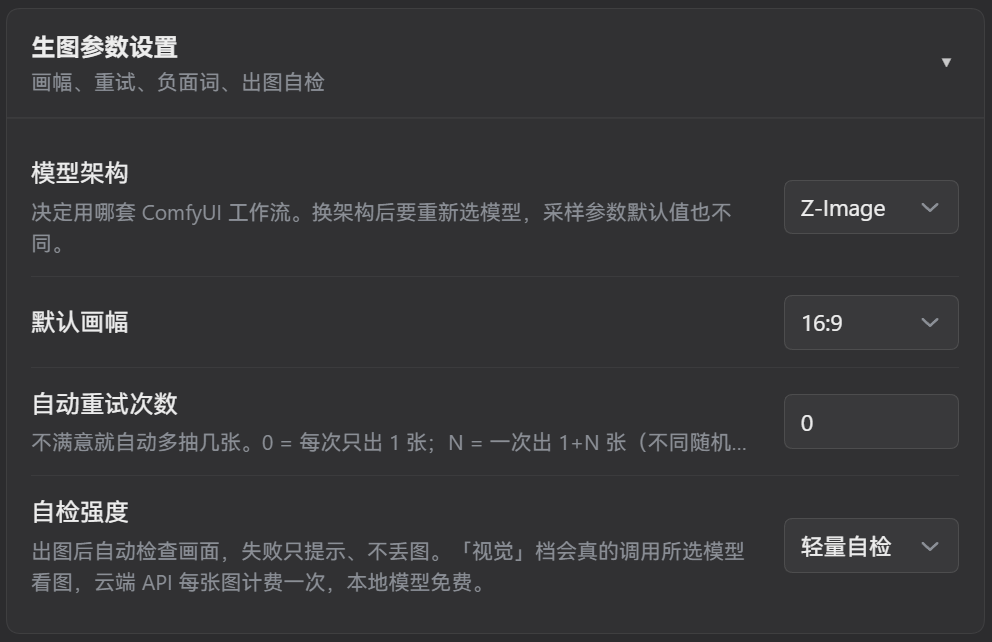
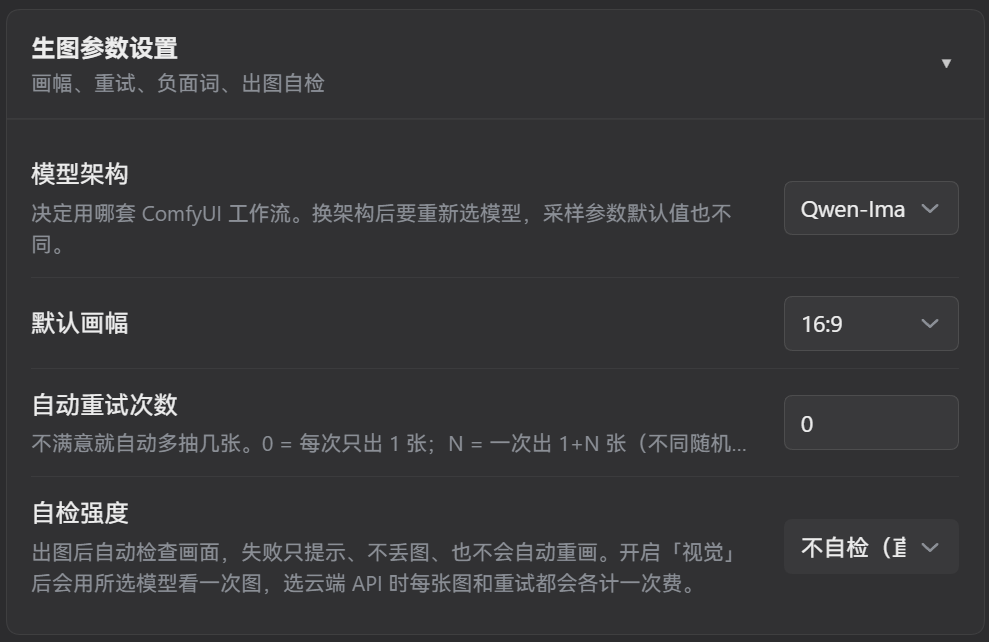
chore: 版本号升到 0.3.3，更新自检说明和截图
- 版本号 0.3.2 → 0.3.3
- CHANGELOG 补 [0.3.3] 章节：删掉轻量自检，说明它引起的 agent 重试问题
- README 四处自检描述改成只剩两档（off / vision），
  并写明「失败只提示、不丢图、不会自动重画」
- 换掉「生图参数设置」截图（新的只有两档自检）

diff --git a/README.md b/README.md
@@ -4,7 +4,7 @@
 
 给一段描述，出一张图；给几张参考图，按描述改。全部调用本机 ComfyUI。  
 支持 **Qwen-Image**、**SDXL**、**Z-Image** 三套架构，可在设置页切换。SDXL 侧额外支持 LoRA（最多 5 个串联）。  
-生图后可选自检：默认的「轻量」只读文件头和尺寸，不调用模型；「视觉」需手动开启，开启后会调用你选定的视觉模型检查结果——这一步的费用由模型提供方收取，插件本身不收费。
+生图后可选自检：默认关闭；开启「视觉自检」后会调用你选定的视觉模型检查结果——这一步的费用由模型提供方收取，插件本身不收费。自检失败只提示、不丢图，也不会自动重画。
 
 [![License: MIT](https://img.shields.io/badge/License-MIT-yellow.svg)](./LICENSE)
 [![DSH Plugin](https://img.shields.io/badge/DeepSeek%20Harness-plugin-blue.svg)]()
@@ -54,7 +54,7 @@ dsh plugin add Hits-pano/dsh-easy-paint
 
 ### 就这三步
 
-剩下的都是可选项：LoRA、参考图、自动重试、出图自检，按需在设置页打开。
+剩下的都是可选项：LoRA、参考图、自动重试、视觉自检，按需在设置页打开。
 
 **第一次用不成功的话**，先看[常见问题](#常见问题)——尤其是「模型下拉是空的」和「出图报错找不到模型」这两条。
 
@@ -71,7 +71,7 @@ dsh plugin add Hits-pano/dsh-easy-paint
 | **底模兼容检测** | 自动读 LoRA 元数据，判断和 Checkpoint 是否同系 |
 | **实时进度** | 状态胶囊显示「Qwen 出图中 4/10」「SDXL 出图中 12/28」「Z-Image 出图中 3/8」 |
 | **自动启停 ComfyUI** | 出图前探活，没启动就自动拉起 |
-| **出图自检** | 可选：「轻量」只查文件尺寸，不调用任何模型 /「视觉」才调模型看图 |
+| **出图自检** | 可选：开启后调用所选视觉模型检查画面；失败只提示、不丢图、不自动重画 |
 | **自动重试** | 可选：一次出多张不同种子供挑选 |
 | **原生设置页** | 6 个折叠面板，改完点保存生效 |
 | **路径自动检测** | 首次安装扫一遍磁盘，自动填好 Python 和 main.py 路径 |
@@ -363,7 +363,7 @@ Z-Image 架构 —— 独立体系，目前没有 LoRA 生态
 | **模型架构** | Qwen-Image / SDXL / Z-Image，决定用哪套工作流 |
 | 默认画幅 | 7 种比例 |
 | 自动重试 | 0 = 一张，N = 连出 1+N 张不同种子 |
-| 自检强度 | off（不自检）/ light（只读文件，**不调用任何模型**）/ vision（调模型看图） |
+| 自检强度 | off（不自检）/ vision（调模型看图） |
 
 ### Qwen 设置
 

diff --git a/CHANGELOG.md b/CHANGELOG.md
@@ -21,6 +21,36 @@
 
 ---
 
+## [0.3.3] - 2026-11-25
+
+删掉一个没用的功能，同时修掉它引起的副作用。
+
+### 移除
+
+- **轻量自检**。原来自检有三档：不自检 / 轻量 / 视觉。轻量档只查两件事——
+  PNG 尺寸对不对、文件是不是小于 5 KB——而这两件事几乎不会真的失败
+  （尺寸已经用实际输出覆盖，正常图也不可能低于 5 KB），所以它只会误报。
+
+- **它误报的代价不只是提示**：\`draw_image\` 返回里带 \`selfCheck.ok = false\`，
+  调用方（agent）看到就以为图坏了，主动重画一遍——**用户设置的「重新出图次数 0」
+  管不到 agent 那一层**，表现为「明明设了 0 次，还是在一张一张重出」。
+
+  现在自检只剩「不自检」和「视觉自检」两档。
+
+### 变更
+
+- \`draw_image\` 的工具说明里明确写：**不要因为 \`selfCheck.ok\` 是 false 就自动重画**，
+  把 issues 转告用户即可，重出次数由设置页控制。
+- 设置页「自检强度」的说明同步更新，明确「失败只提示、不丢图、不会自动重画」。
+- 更新「生图参数设置」截图（自检从三档变两档）。
+
+### 兼容
+
+**旧配置里 \`selfCheck: 'light'\` 不需要迁移**——代码只判断 \`=== 'vision'\`，
+所以旧值会自动走「不自检」分支，行为和删除前一致。
+
+---
+
 ## [0.3.2] - 2026-11-25
 
 修两个会导致「卡住」的问题。**关键修复，建议升级。**
